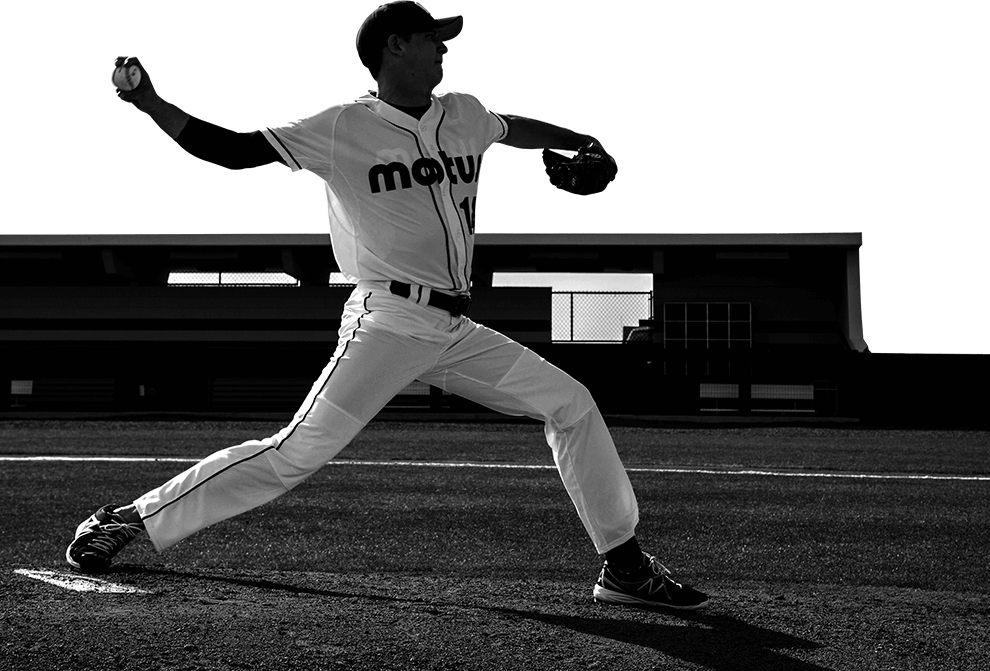
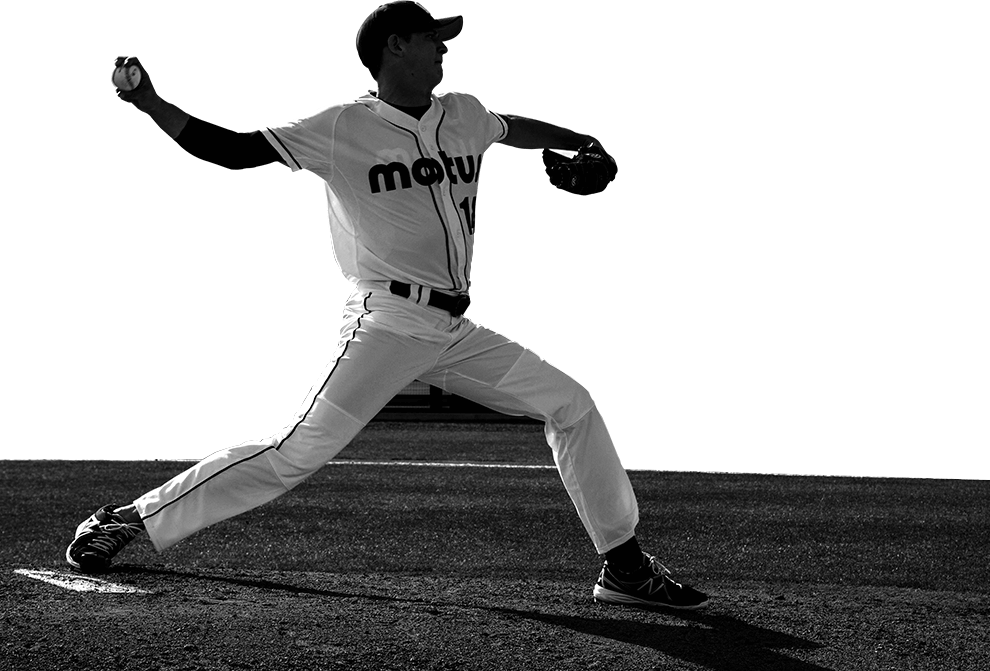
added pitcher-sil-3 which cuts out more of the background for the pitcher

Changed region(s): [[0.4545, 0.3279, 1.0, 0.7154], [0.0, 0.3279, 0.3636, 0.6855]]

diff --git a/public/views/player-analysis-views/home.html b/public/views/player-analysis-views/home.html
@@ -44,7 +44,7 @@
       <piestats id="otherShoulder" bind="otherShoulder" slices="10"></piestats>
       <piestats id="hip" bind="hip" slices="10"></piestats>
       <piestats slices="10" id="foot" bind="foot" ></piestats>
-      <img src="../images/pitcher-sil-2.png" alt="Pitcher silhouette">
+      <img src="../images/pitcher-sil-3.png" alt="Pitcher silhouette">
 
       <div class="nested-footer">
 
